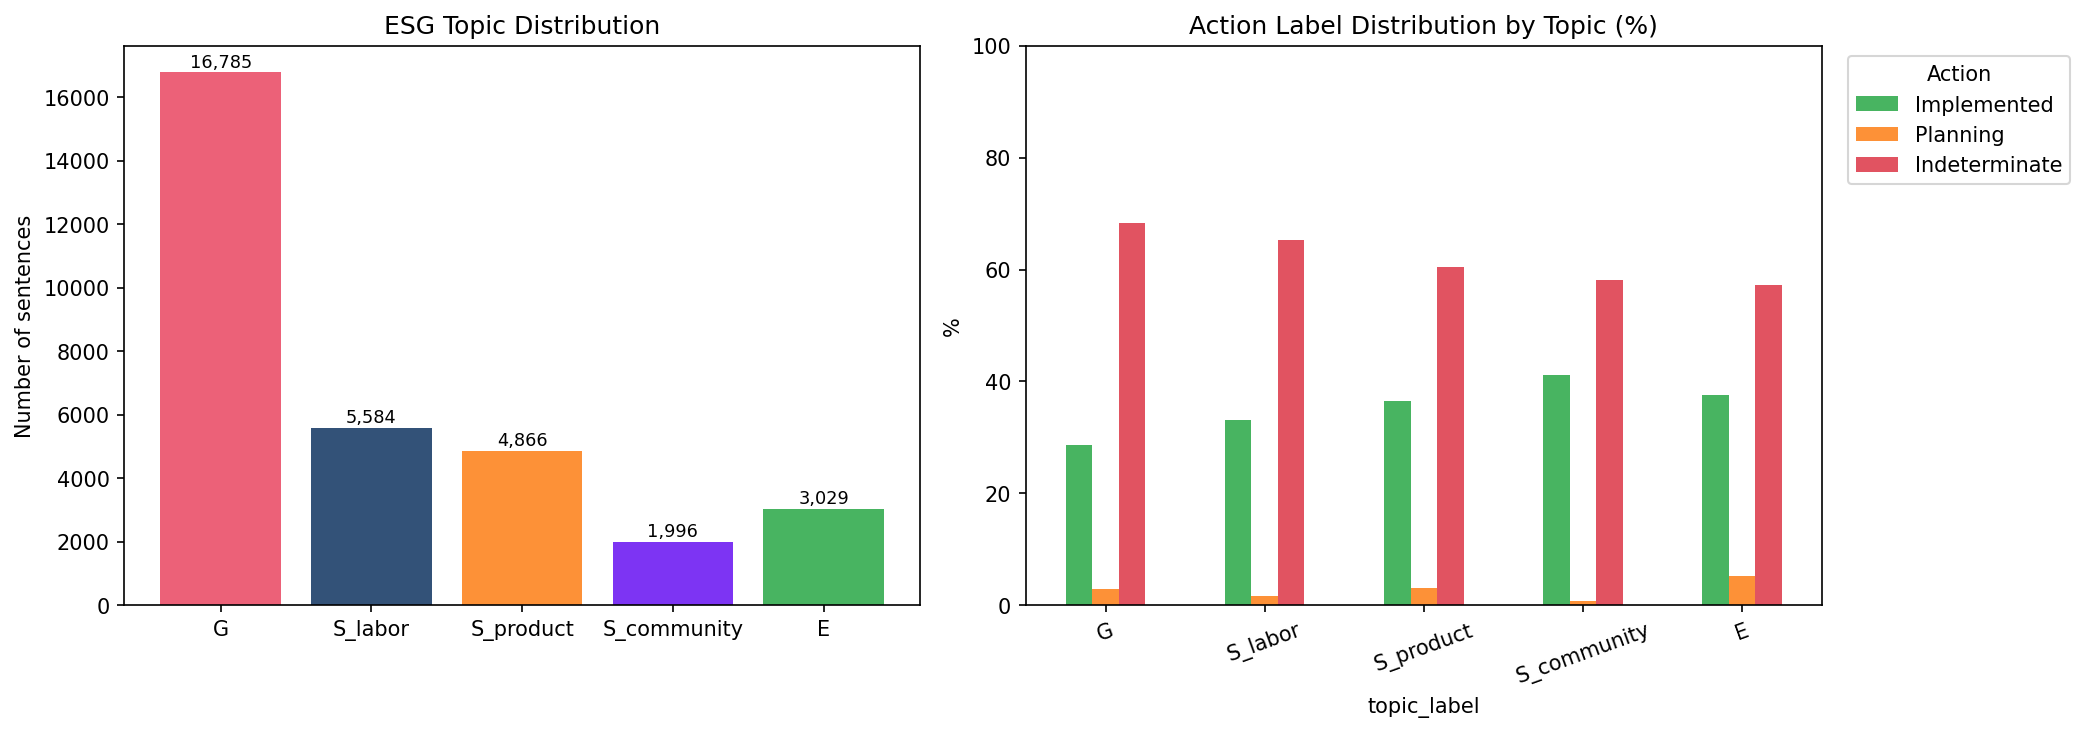
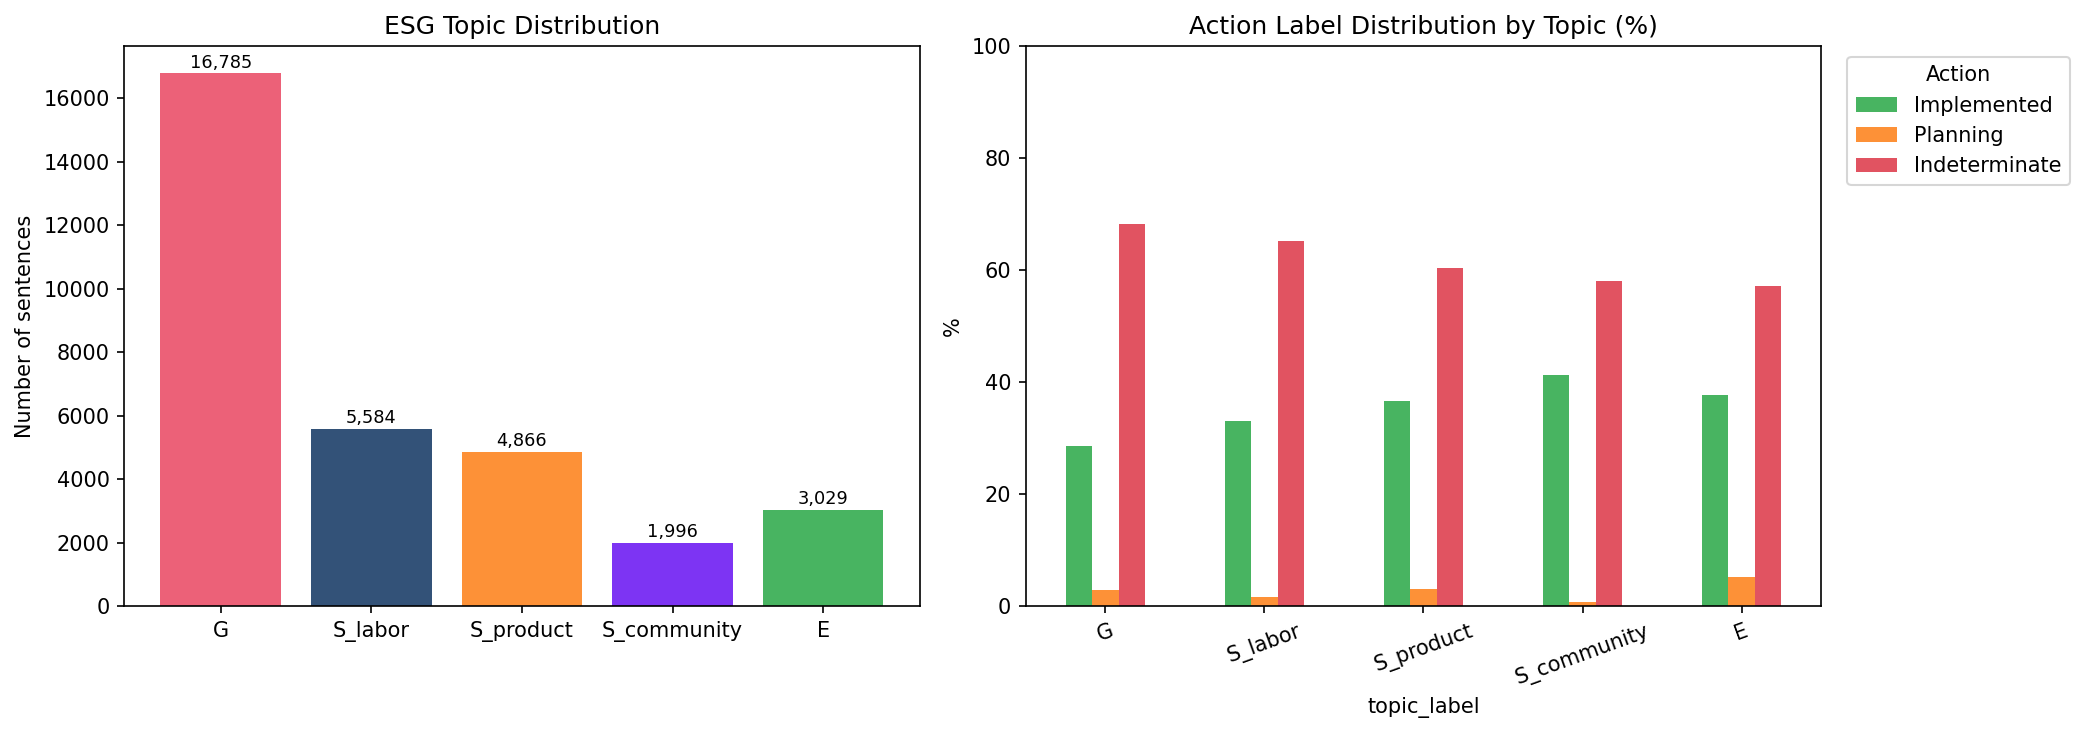
update

diff --git a/src/pipeline/ewri_grid_search.py b/src/pipeline/ewri_grid_search.py
@@ -29,19 +29,45 @@ def _build_valid_combos(grids: dict, ordering_check) -> list[dict]:
     return [c for c in combos if ordering_check(c)]
 
 
+def _kendall_w_batch(ewri_matrix: np.ndarray) -> np.ndarray:
+    """
+    Compute Kendall's W (coefficient of concordance) for each parameter combo.
+
+    ewri_matrix : (n_combos, n_banks, n_years)
+        EWRI score for each combo, bank, and year.
+
+    Returns W : (n_combos,) in [0, 1].
+        W = 1 → perfect agreement in bank rankings across years.
+        W = 0 → no concordance.
+
+    Objective rationale: if EWRI captures stable institutional ESG-washing
+    characteristics, bank rankings should be consistent across reporting years.
+    This criterion has a genuine interior optimum — parameters too small collapse
+    all scores toward zero (rankings become noisy); parameters too large amplify
+    random variation rather than systematic bank differences.
+    """
+    n_combos, n_banks, n_years = ewri_matrix.shape
+    if n_banks < 2 or n_years < 2:
+        return np.zeros(n_combos, dtype=np.float32)
+
+    # Rank banks within each year (axis=1 = bank axis). Double argsort → ordinal rank.
+    ranks = np.argsort(np.argsort(ewri_matrix, axis=1), axis=1).astype(np.float64) + 1
+
+    # R[combo, bank] = sum of ranks across all years
+    R = ranks.sum(axis=2)                          # (n_combos, n_banks)
+    R_mean = n_years * (n_banks + 1) / 2
+    S = ((R - R_mean) ** 2).sum(axis=1)            # (n_combos,)
+    W = 12.0 * S / (n_years ** 2 * (n_banks ** 3 - n_banks))
+    return W.astype(np.float32)
+
+
 def run_grid_search(df: pd.DataFrame) -> tuple[pd.DataFrame, dict]:
-    # input
     actions = df["action_label"].astype(str).to_numpy()
-    has_ev = (df["has_evidence"].astype(bool).to_numpy()
-              if "has_evidence" in df.columns else np.zeros(len(df), dtype=bool))
     nli = (df["nli_label"].astype(str).to_numpy()
            if "nli_label" in df.columns else np.full(len(df), "", dtype=object))
     is_contr = (nli == "contradiction")
-
-    # es = 1 only when NLI confirms entailment (genuine evidence support)
     es = np.where(nli == "entailment", 1.0, 0.0).astype(np.float32)
 
-    # valid parameter combinations
     valid_p = _build_valid_combos(
         P_ACTION_GRIDS,
         lambda c: c["Implemented"] < c["Planning"] < c["Indeterminate"],
@@ -52,74 +78,80 @@ def run_grid_search(df: pd.DataFrame) -> tuple[pd.DataFrame, dict]:
     )
     n_p, n_l = len(valid_p), len(valid_l)
     print(f"P combos: {n_p}  |  L combos: {n_l}  |  C values: {len(C_GRIDS)}")
-    print(f"Max combinations: {n_p * n_l * len(C_GRIDS):,}  (WRS-bound filter applied per C)")
+    print(f"Total combinations: {n_p * n_l * len(C_GRIDS):,}  (WRS-bound filter: P_indet × C ≤ 1)")
 
-    mask = np.column_stack([
-        (actions == k).astype(np.float32) for k in _ACTION_KEYS
-    ])
-
-    # P_mat[i, :] = p_arr for i P combo  ->  shape (n_p, n_sentences)
+    mask = np.column_stack([(actions == k).astype(np.float32) for k in _ACTION_KEYS])
     P_vals = np.array([[p[k] for k in _ACTION_KEYS] for p in valid_p], dtype=np.float32)
-    P_mat = P_vals @ mask.T # (n_p, n_sentences)
-
-    # L_mat[j, :] = L_arr for j L combo  ->  shape (n_l, n_sentences)
+    P_mat = P_vals @ mask.T   # (n_p, n_sentences)
     L_vals = np.array([[l[k] for k in _ACTION_KEYS] for l in valid_l], dtype=np.float32)
-    L_mat = L_vals @ mask.T # (n_l, n_sentences)
+    L_mat = L_vals @ mask.T   # (n_l, n_sentences)
 
+    # Structured (bank × year) aggregation for Kendall's W
+    banks = sorted(df["bank"].unique())
+    years = sorted(df["year"].unique())
+    n_banks, n_years = len(banks), len(years)
+    bank_to_idx = {b: i for i, b in enumerate(banks)}
+    year_to_idx = {y: i for i, y in enumerate(years)}
+    group_idx = np.array([bank_to_idx[b] * n_years + year_to_idx[y]
+                          for b, y in zip(df["bank"], df["year"])])
+    n_groups_by = n_banks * n_years
+    one_hot_by = np.zeros((len(df), n_groups_by), dtype=np.float32)
+    one_hot_by[np.arange(len(df)), group_idx] = 1.0
+    counts_by = np.maximum(one_hot_by.sum(axis=0), 1.0)
+
+    # Flat bank-year aggregation for mean/std/CV reporting
     bank_year = df[["bank", "year"]].astype(str).agg("_".join, axis=1).to_numpy()
     unique_keys, inverse = np.unique(bank_year, return_inverse=True)
     n_groups = len(unique_keys)
-
     one_hot = np.zeros((len(df), n_groups), dtype=np.float32)
     one_hot[np.arange(len(df)), inverse] = 1.0
-    counts = np.maximum(one_hot.sum(axis=0), 1.0)  # (n_groups,)
+    counts = np.maximum(one_hot.sum(axis=0), 1.0)
 
-    # grid search
-    best_cv = -np.inf
+    best_w = -np.inf
     best_params: dict = {}
     rows: list[dict] = []
 
     for p_idx in tqdm(range(n_p), desc="P_action"):
         p_dict = valid_p[p_idx]
         p_indet = p_dict["Indeterminate"]
-        p_arr = P_mat[p_idx]   # (n_sentences,)
+        p_arr = P_mat[p_idx]
 
-        # base_wrs for all L combos at once: (n_l, n_sentences)
-        # base_wrs[j, i] = p_arr[i] x (1 − L_arr[j, i] x es[i])
-        base_all = p_arr[None, :] * (1.0 - L_mat * es[None, :])
+        base_all = p_arr[None, :] * (1.0 - L_mat * es[None, :])  # (n_l, n_sentences)
 
         for c_val in C_GRIDS:
-            if p_indet * c_val > 1.0:   # WRS-bound constraint
+            if p_indet * c_val > 1.0:   # WRS upper-bound constraint
                 continue
 
-            # Apply contradiction amplifier: (n_l, n_sentences)
             wrs_all = np.where(
                 is_contr[None, :],
                 np.minimum(base_all * c_val, 1.0),
                 base_all,
             ).clip(0.0, 1.0)
 
-            # Aggregate -> (n_l, n_groups) -> EWRI x 100
-            ewri_all = (wrs_all @ one_hot / counts[None, :]) * 100.0
+            # ── Primary objective: Kendall's W ──────────────────────────────
+            ewri_by = (wrs_all @ one_hot_by / counts_by[None, :]) * 100.0  # (n_l, n_banks*n_years)
+            ewri_mat = ewri_by.reshape(n_l, n_banks, n_years)               # (n_l, n_banks, n_years)
+            w_all = _kendall_w_batch(ewri_mat)                              # (n_l,)
 
-            std_all = ewri_all.std(axis=1) # (n_l,)
-            mean_all = ewri_all.mean(axis=1) # (n_l,)
+            # ── Secondary metrics (CV, mean, std) ───────────────────────────
+            ewri_cv = (wrs_all @ one_hot / counts[None, :]) * 100.0
+            std_all = ewri_cv.std(axis=1)
+            mean_all = ewri_cv.mean(axis=1)
             cv_all = np.where(mean_all > 0, std_all / mean_all, 0.0)
 
-            # Track best
-            best_l = int(np.argmax(cv_all))
-            if cv_all[best_l] > best_cv:
-                best_cv = cv_all[best_l]
+            best_l = int(np.argmax(w_all))
+            if w_all[best_l] > best_w:
+                best_w = float(w_all[best_l])
                 best_params = {
                     "P": p_dict,
                     "Lambda": valid_l[best_l],
                     "C": c_val,
                     "Mean": float(mean_all[best_l]),
                     "Std": float(std_all[best_l]),
-                    "CV": float(best_cv),
+                    "CV": float(cv_all[best_l]),
+                    "KendallW": best_w,
                 }
 
-            # Collect all L results for this (P, C)
             for l_idx in range(n_l):
                 l_dict = valid_l[l_idx]
                 rows.append({
@@ -133,14 +165,19 @@ def run_grid_search(df: pd.DataFrame) -> tuple[pd.DataFrame, dict]:
                     "Mean_EWRI": float(mean_all[l_idx]),
                     "Std_EWRI": float(std_all[l_idx]),
                     "CV_EWRI": float(cv_all[l_idx]),
+                    "KendallW_EWRI": float(w_all[l_idx]),
                 })
 
-    results_df = pd.DataFrame(rows).sort_values("CV_EWRI", ascending=False).reset_index(drop=True)
+    results_df = (pd.DataFrame(rows)
+                  .sort_values("KendallW_EWRI", ascending=False)
+                  .reset_index(drop=True))
     return results_df, best_params
 
 
 def main():
-    parser = argparse.ArgumentParser(description="Vectorised EWRI grid search.")
+    parser = argparse.ArgumentParser(
+        description="EWRI grid search — objective: Kendall's W (rank concordance across years)."
+    )
     parser.add_argument("--input", default="outputs/experiments/evidence/evidence_nli.parquet")
     parser.add_argument("--output", default="outputs/ewri_grid_search_results.csv")
     args = parser.parse_args()
@@ -156,12 +193,13 @@ def main():
 
     results_df, best = run_grid_search(df)
 
-    print("\n" + "=" * 55)
-    print("EWRI GRID SEARCH  (objective = CV = Std / Mean)")
-    print("=" * 55)
-    print(f"Best CV   : {best['CV']:.4f}")
-    print(f"Std EWRI  : {best['Std']:.4f}")
-    print(f"Mean EWRI : {best['Mean']:.2f}")
+    print("\n" + "=" * 60)
+    print("EWRI GRID SEARCH  (objective = Kendall's W)")
+    print("=" * 60)
+    print(f"Best Kendall's W : {best['KendallW']:.4f}")
+    print(f"Mean EWRI        : {best['Mean']:.2f}")
+    print(f"Std EWRI         : {best['Std']:.4f}")
+    print(f"CV (secondary)   : {best['CV']:.4f}")
     print(f"\nOptimal parameters:")
     print(f"  P_action : {best['P']}")
     print(f"  Lambda   : {best['Lambda']}")